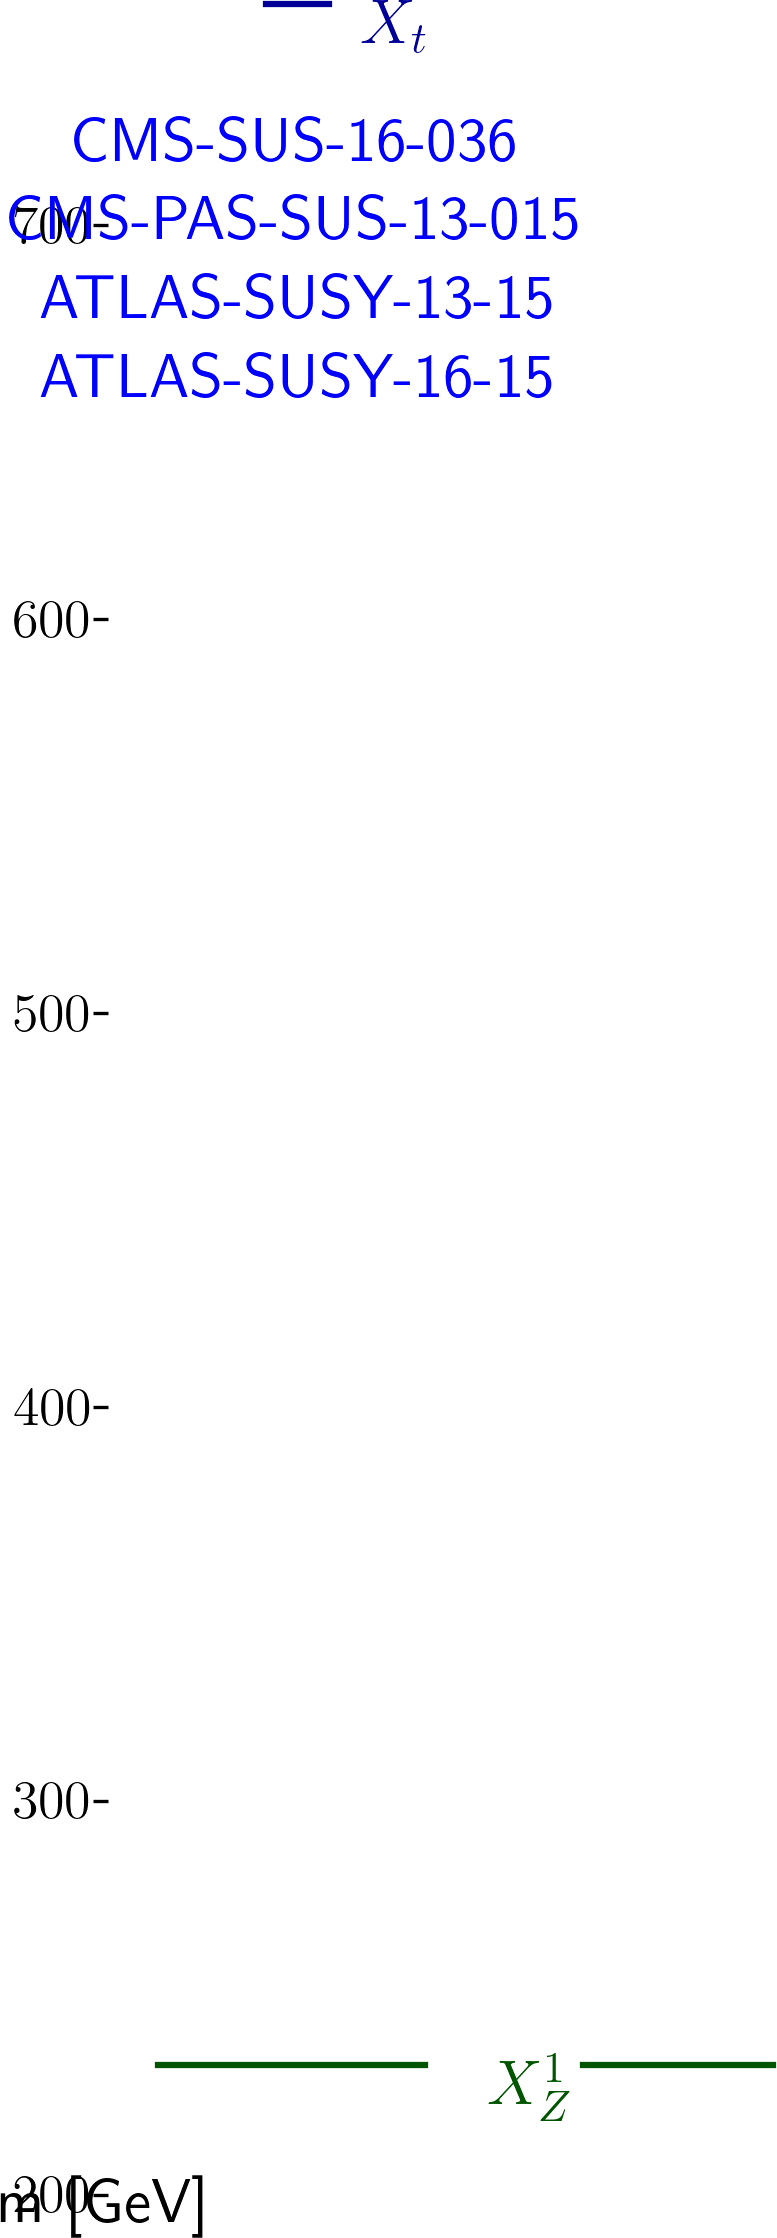
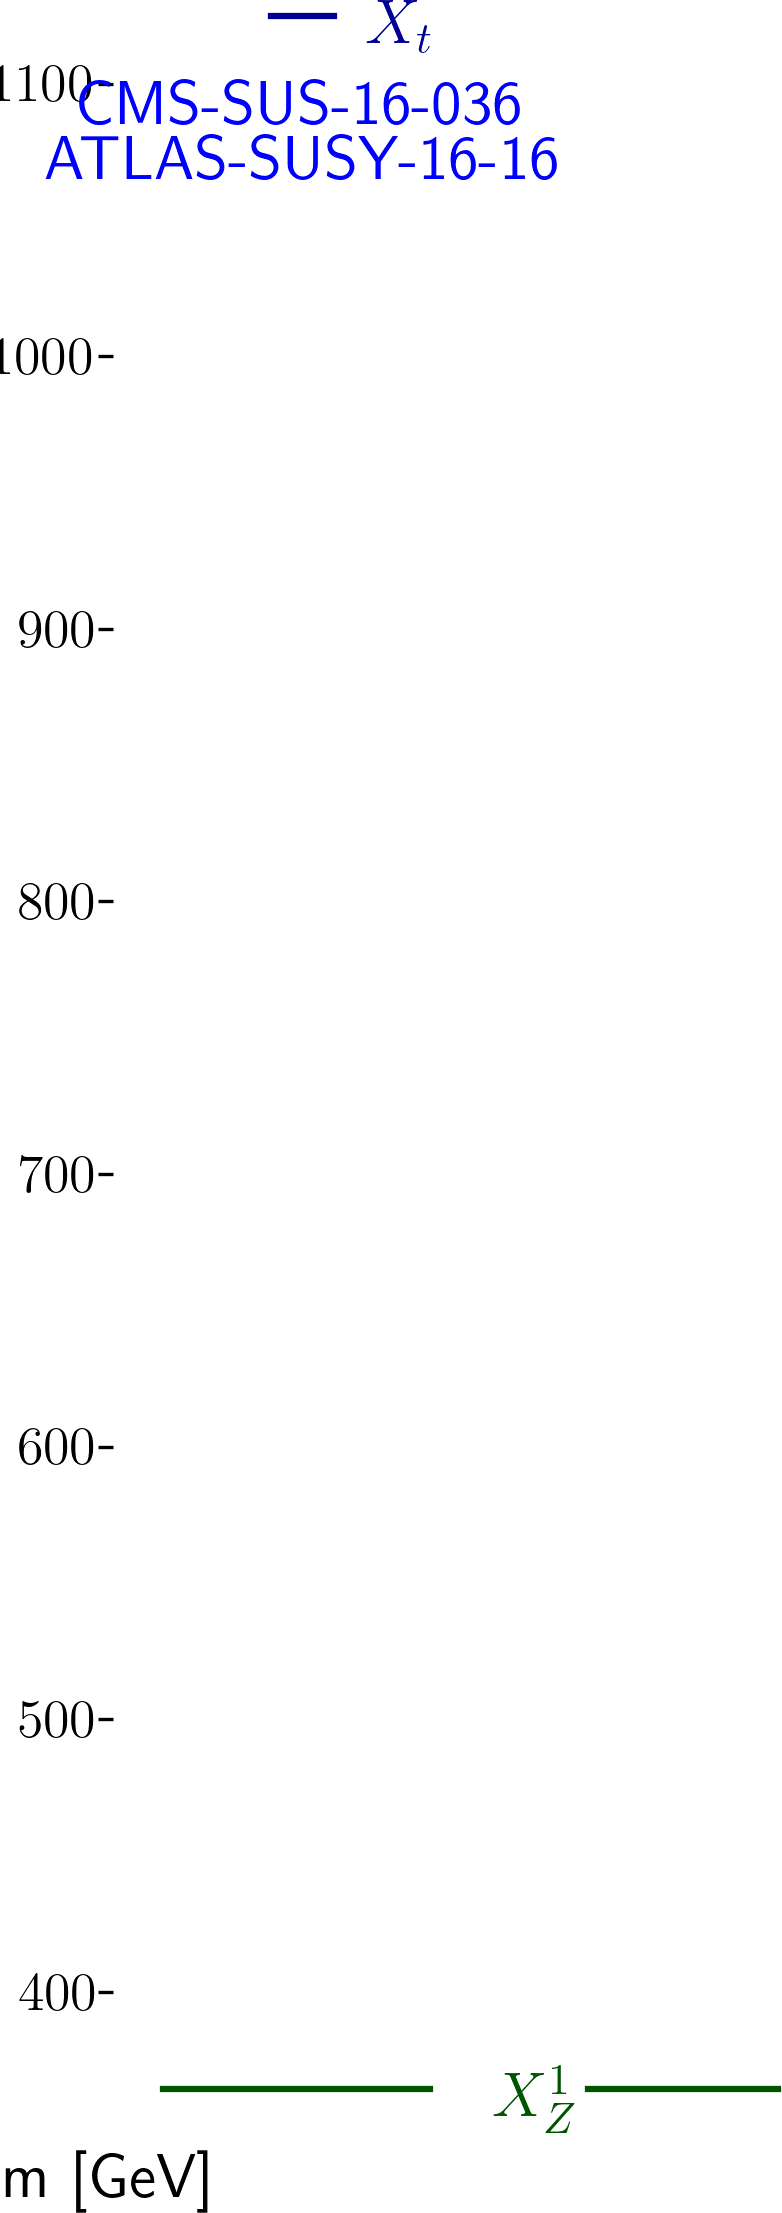
automated update by plotHiscore.py

diff --git a/protomodels/latest/index.html b/protomodels/latest/index.html
@@ -1,29 +1,27 @@
 <html>
 <body>
 <center>
-<table><td><h1>Current best protomodel: K=5.20</h1><td><img height=60px src=https://smodels.github.io/pics/banner.png></table>
+<table><td><h1>Current best protomodel: K=5.07</h1><td><img height=60px src=https://smodels.github.io/pics/banner.png></table>
 </center>
-<b><a href=./hiscore.slha>ProtoModel</a> <a href=./pmodel.py>(dict)</a> produced with <a href=https://smodels.github.io/docs/Validation123fake20>database v1.2.3fake20</a>, combination strategy <a href=./matrix_aggressive.png>aggressive</a> in walker 29 step 839.</b> K plots for: <a href=./M1000022.png?5165495>X<sub>Z</sub><sup>1</sup></a>, <a href=./M1000006.png?5165495>X<sub>t</sub></a>. HPD plots for: <a href=./llhd1000006.png?5165495>X<sub>t</sub></a>. SSM plots for: <a href=./ssm_-1000006_1000006.png?5165495>(x&#772;<sub>t</sub>,X<sub>t</sub>)</a><br>
+<b><a href=./hiscore.slha>ProtoModel</a> <a href=./pmodel.py>(dict)</a> produced with <a href=https://smodels.github.io/docs/Validation123fake6>database v1.2.3fake6</a>, combination strategy <a href=./matrix_aggressive.png>aggressive</a> in walker 25 step 416.</b> K plots for: <a href=./M1000022.png?5166163>X<sub>Z</sub><sup>1</sup></a>, <a href=./M1000006.png?5166163>X<sub>t</sub></a>. HPD plots for: <a href=./llhd1000006.png?5166163>X<sub>t</sub></a>. SSM plots for: <a href=./ssm_-1000006_1000006.png?5166163>(x&#772;<sub>t</sub>,X<sub>t</sub>)</a><br>
 <table width=80%>
 <tr><td>
-<br><b>31 predictions available. Highest r values are:</b><br><ul>
-<li><a href=http://cms-results.web.cern.ch/cms-results/public-results/publications/SUS-16-050/index.html>CMS-SUS-16-050</a>:T2tt r=1.30, r<sub>exp</sub>=1.10<br>
-<li><a href=http://cms-results.web.cern.ch/cms-results/public-results/publications/SUS-16-033/index.html>CMS-SUS-16-033</a>:T2tt r=1.24, r<sub>exp</sub>=0.65<br>
-<li><a href=https://twiki.cern.ch/twiki/bin/view/CMSPublic/PhysicsResultsSUS13023>CMS-PAS-SUS-13-023</a>:T2tt r=0.93, r<sub>exp</sub>=N/A<br>
-<li><a href=http://cms-results.web.cern.ch/cms-results/public-results/publications/SUS-16-051/index.html>CMS-SUS-16-051</a>:T2tt r=0.91, r<sub>exp</sub>=0.81<br>
-<li><a href=http://cms-results.web.cern.ch/cms-results/public-results/publications/SUS-16-049/index.html>CMS-SUS-16-049</a>:T2tt r=0.83, r<sub>exp</sub>=1.27<br>
+<br><b>13 predictions available. Highest r values are:</b><br><ul>
+<li><a href=http://cms-results.web.cern.ch/cms-results/public-results/publications/SUS-19-006/index.html>CMS-SUS-19-006</a>:T2tt r=1.30, r<sub>exp</sub>=0.80<br>
+<li><a href=http://cms-results.web.cern.ch/cms-results/public-results/publications/SUS-16-050/index.html>CMS-SUS-16-050</a>:T2tt r=0.66, r<sub>exp</sub>=0.76<br>
+<li><a href=http://cms-results.web.cern.ch/cms-results/public-results/publications/SUS-16-049/index.html>CMS-SUS-16-049</a>:T2tt r=0.49, r<sub>exp</sub>=0.77<br>
+<li><a href=https://atlas.web.cern.ch/Atlas/GROUPS/PHYSICS/PAPERS/SUSY-2016-15/>ATLAS-SUSY-2016-15</a>:T2tt r=0.40, r<sub>exp</sub>=N/A<br>
+<li><a href=http://cms-results.web.cern.ch/cms-results/public-results/publications/SUS-16-033/index.html>CMS-SUS-16-033</a>:T2tt r=0.39, r<sub>exp</sub>=0.50<br>
 </ul>
 <td><br><b>Contributions per analysis:</b><br>
 <ul>
-<li> <a href=http://cms-results.web.cern.ch/cms-results/public-results/publications/SUS-16-036/index.html>CMS-SUS-16-036</a>: 42%
-<li> <a href=https://atlas.web.cern.ch/Atlas/GROUPS/PHYSICS/PAPERS/SUSY-2013-15/>ATLAS-SUSY-2013-15</a>: 36%
-<li> <a href=https://atlas.web.cern.ch/Atlas/GROUPS/PHYSICS/PAPERS/SUSY-2016-15/>ATLAS-SUSY-2016-15</a>: 12%
-<li> <a href=https://twiki.cern.ch/twiki/bin/view/CMSPublic/PhysicsResultsSUS13015>CMS-PAS-SUS-13-015</a>: 10%
-<td><img width=600px src=./texdoc.png?1598165495>
-<br><font size=-1>Last updated: Sun Aug 23 08:51:35 2020</font>
+<li> <a href=https://atlas.web.cern.ch/Atlas/GROUPS/PHYSICS/PAPERS/SUSY-2016-16/>ATLAS-SUSY-2016-16</a>: 95%
+<li> <a href=http://cms-results.web.cern.ch/cms-results/public-results/publications/SUS-16-036/index.html>CMS-SUS-16-036</a>: 5%
+<td><img width=600px src=./texdoc.png?1598166163>
+<br><font size=-1>Last updated: Sun Aug 23 09:02:43 2020</font>
 </table><table style="width:80%">
-<td width=45%><img height=580px src=./ruler.png?1598165495><td width=55%><img height=380px src=./decays.png?1598165495>
-<font size=-3><iframe type="text/html" height="220px" width="100%s" frameborder="0" src="./rawnumbers.html?1598165495"></iframe></font>
+<td width=45%><img height=580px src=./ruler.png?1598166163><td width=55%><img height=380px src=./decays.png?1598166163>
+<font size=-3><iframe type="text/html" height="220px" width="100%s" frameborder="0" src="./rawnumbers.html?1598166163"></iframe></font>
 </table>
 </body>
 </html>

diff --git a/protomodels/latest/rawnumbers.html b/protomodels/latest/rawnumbers.html
@@ -1,8 +1,6 @@
 <table>
 <tr><th>Analysis Name</th><th>Type</th><th>Dataset</th><th>Observed</th><th>Expected</th><th>Approx &sigma;</th><th>Particles</th>
 </tr>
-<tr><td><a href=https://atlas.web.cern.ch/Atlas/GROUPS/PHYSICS/PAPERS/SUSY-2016-15/>ATLAS-SUSY-2016-15</a></td><td>em</td> <td>SRATT</td><td>13</td><td>8.6 +/- 2.1</td><td style="text-align:right">1.2 &sigma;</td><td style="text-align:right">X<sub>t</sub></td></tr>
-<tr><td><a href=http://cms-results.web.cern.ch/cms-results/public-results/publications/SUS-16-036/index.html>CMS-SUS-16-036</a></td><td>ul</td> <td>-</td><td> 29.9 fb </td><td> 17.3 fb</td><td style="text-align:right">1.4 &sigma;</td><td style="text-align:right">X<sub>t</sub></td></tr>
-<tr><td><a href=https://atlas.web.cern.ch/Atlas/GROUPS/PHYSICS/PAPERS/SUSY-2013-15/>ATLAS-SUSY-2013-15</a></td><td>em</td> <td>tNboost</td><td>7</td><td>3.3 +/- 0.7</td><td style="text-align:right">1.9 &sigma;</td><td style="text-align:right">X<sub>t</sub></td></tr>
-<tr><td><a href=https://twiki.cern.ch/twiki/bin/view/CMSPublic/PhysicsResultsSUS13015>CMS-PAS-SUS-13-015</a></td><td>em</td> <td>pTmiss350_Nb2</td><td>20</td><td>8.6 +/- 7.1</td><td style="text-align:right">1.5 &sigma;</td><td style="text-align:right">X<sub>t</sub></td></tr>
+<tr><td><a href=https://atlas.web.cern.ch/Atlas/GROUPS/PHYSICS/PAPERS/SUSY-2016-16/>ATLAS-SUSY-2016-16</a></td><td>em</td> <td>tN_high</td><td>11</td><td>3.8 +/- 1</td><td style="text-align:right">3.3 &sigma;</td><td style="text-align:right">X<sub>t</sub></td></tr>
+<tr><td><a href=http://cms-results.web.cern.ch/cms-results/public-results/publications/SUS-16-036/index.html>CMS-SUS-16-036</a></td><td>ul</td> <td>-</td><td> 8.9 fb </td><td> 5.3 fb</td><td style="text-align:right">1.3 &sigma;</td><td style="text-align:right">X<sub>t</sub></td></tr>
 </table>

diff --git a/protomodels/latest/pmodel.py b/protomodels/latest/pmodel.py
@@ -1,1 +1,1 @@
-{'masses': {1000022: 222.962, 1000006: 746.24}, 'ssmultipliers': {(1000022, 1000022): 0.99, (1000006, 1000006): 1.072, (-1000006, 1000006): 0.276, (-1000006, -1000006): 0.347, (1000006, 1000022): 0.347, (-1000006, 1000022): 0.347}, 'decays': {1000022: {}, 1000006: {1000022: 1.0}}, 'timestamp': 'Sun Aug 23 08:51:23 2020', 'Z': 2.73, 'K': 5.203, 'step': 839, 'codever': '1.0', 'dbver': '1.2.3fake20'}
+{'masses': {1000022: 354.5, 1000006: 1114.761}, 'ssmultipliers': {(1000022, 1000022): 0.983, (1000006, 1000006): 0.872, (-1000006, 1000006): 0.872, (-1000006, -1000006): 0.872, (1000006, 1000022): 0.872, (-1000006, 1000022): 0.0}, 'decays': {1000022: {}, 1000006: {1000022: 1.0}}, 'timestamp': 'Sun Aug 23 09:02:36 2020', 'Z': 2.706, 'K': 5.073, 'step': 416, 'codever': '1.0', 'dbver': '1.2.3fake6'}
